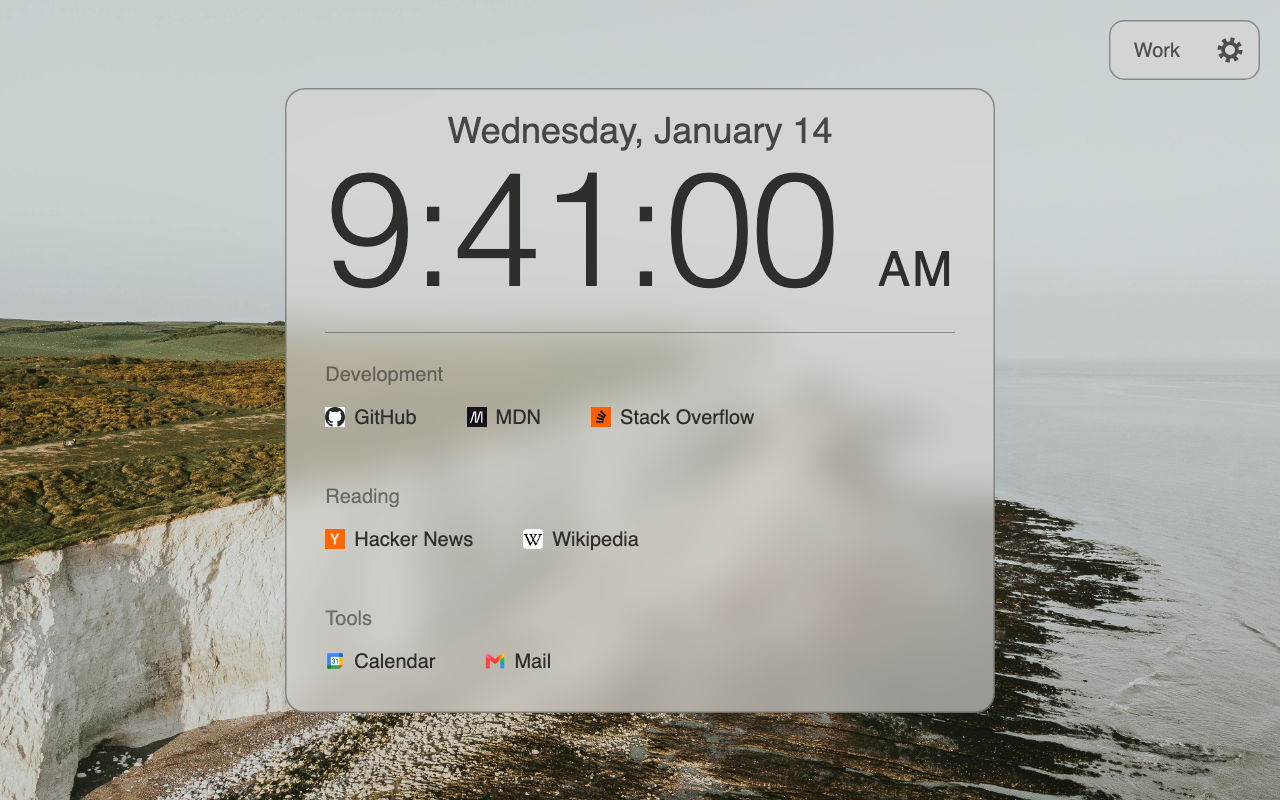
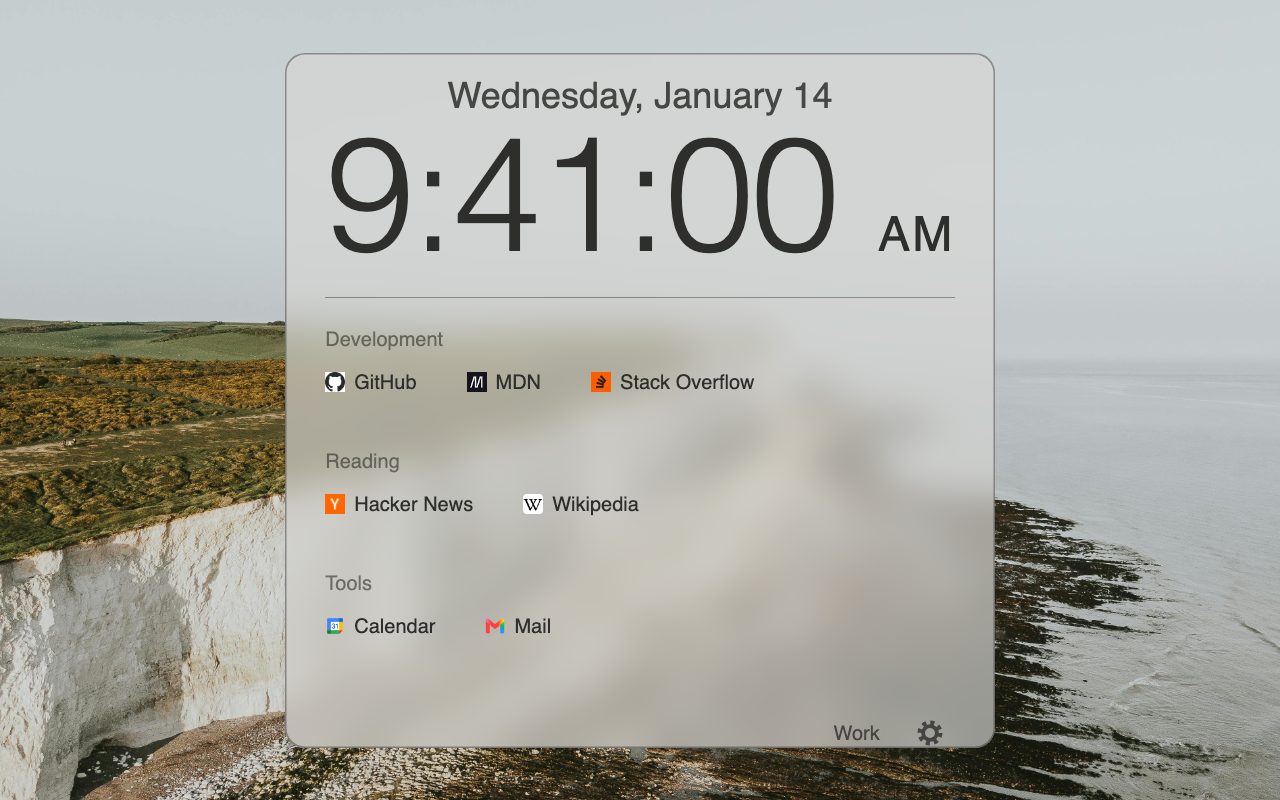
Put the set switcher and gear inside the Center panel
In the Center layout the link set switcher and gear floated alone in the
top-right corner, away from the one panel everything else is in. They
now sit in a footer row at the bottom of that panel, with the set menu
opening upward so the panel's scrolling doesn't clip it. Corners keeps
them in the top-right corner.

The controls move inside the .stack wrapper in the markup; Corners is
unaffected because the wrapper stays out of layout there.

Regenerates the store screenshots.

diff --git a/new-tab.html b/new-tab.html
@@ -124,23 +124,23 @@
     </style>
   </head>
   <body>
-    <div class="top-controls panel">
-      <div id="set-switcher" class="set-switcher">
-        <a id="set-switcher-toggle" class="set-switcher-toggle" title="Link set"></a>
-        <div id="set-switcher-menu" class="set-switcher-menu panel" hidden></div>
-      </div>
-      <a id="settings-link" class="settings-link" title="Options"
-        ><svg viewBox="0 0 24 24" fill="none" stroke="currentColor" aria-hidden="true">
-          <!-- teeth: a thick dashed ring, 8 dashes around r=8 (circumference 16π) -->
-          <circle cx="12" cy="12" r="8" stroke-width="4" stroke-dasharray="3.1416 3.1416" />
-          <circle cx="12" cy="12" r="5.5" stroke-width="3" /></svg
-      ></a>
-    </div>
-    <!-- Only a box in the layouts that stack the clock over the links; see
-         .stack in panels.css -->
+    <!-- Only a box in the Center layout, which puts everything in one panel;
+         see .stack in panels.css -->
     <div class="stack">
       <section id="link-groups" class="link-groups panel"></section>
       <section id="clock" class="clock panel"><span></span></section>
+      <div class="top-controls panel">
+        <div id="set-switcher" class="set-switcher">
+          <a id="set-switcher-toggle" class="set-switcher-toggle" title="Link set"></a>
+          <div id="set-switcher-menu" class="set-switcher-menu panel" hidden></div>
+        </div>
+        <a id="settings-link" class="settings-link" title="Options"
+          ><svg viewBox="0 0 24 24" fill="none" stroke="currentColor" aria-hidden="true">
+            <!-- teeth: a thick dashed ring, 8 dashes around r=8 (circumference 16π) -->
+            <circle cx="12" cy="12" r="8" stroke-width="4" stroke-dasharray="3.1416 3.1416" />
+            <circle cx="12" cy="12" r="5.5" stroke-width="3" /></svg
+        ></a>
+      </div>
     </div>
     <script src="storage.js"></script>
     <script src="render.js"></script>

diff --git a/panels.css b/panels.css
@@ -210,6 +210,20 @@ body[data-layout="center"] {
     }
   }
 
+  /* The link set switcher and gear sit in a footer row of the panel */
+  & .top-controls {
+    order: 1;
+    justify-content: flex-end;
+    padding: calc(0.5rem * var(--density, 1)) calc(1rem * var(--density, 1));
+  }
+
+  /* Open upward: the panel scrolls (overflow: auto), so a menu hanging
+     below it would be clipped */
+  & .set-switcher-menu {
+    top: auto;
+    bottom: calc(100% + 0.5rem);
+  }
+
   & .clock-date {
     font-size: 1.8rem;
     font-weight: 500;
